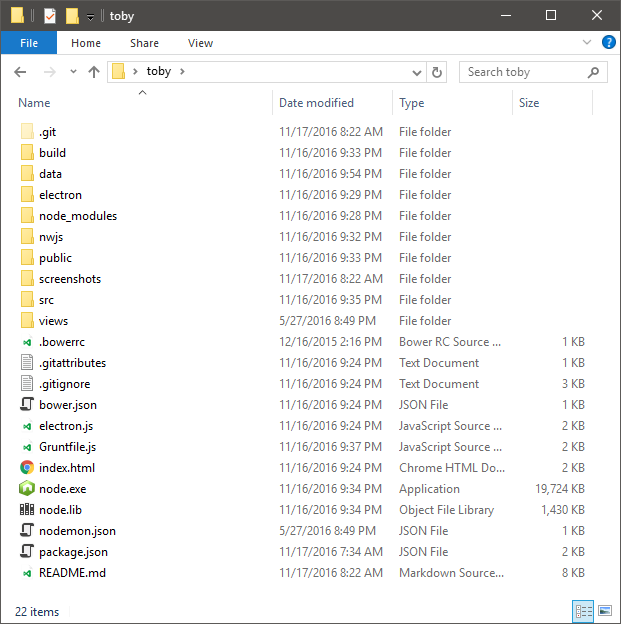
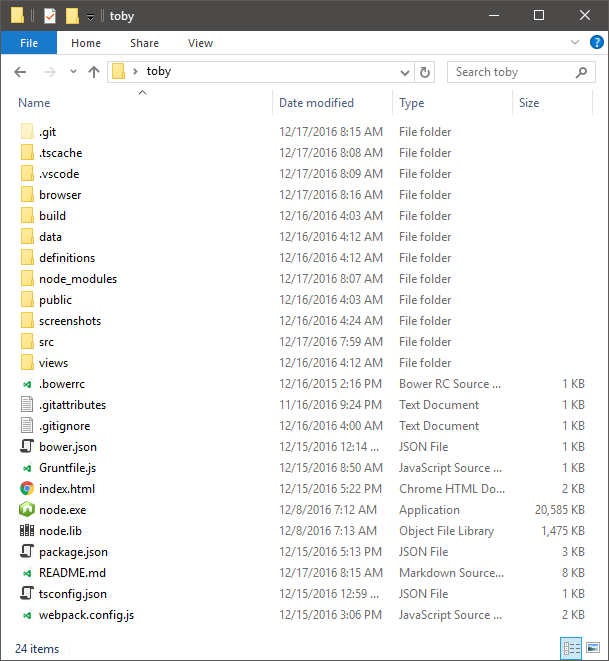
Update README

diff --git a/src/react-components/video-list-ui.tsx b/src/react-components/video-list-ui.tsx
@@ -115,9 +115,9 @@ export class VideoList extends React.Component<{}, {}> {
     //   );
     // });
 
+    //<table id="videoListTable">{videoResults}</table>
     return (
-      <div className="content-panel">
-        <table id="videoListTable">{videoResults}</table>
+      <div className="content-panel">        
       </div>
     )
   }

diff --git a/README.md b/README.md
@@ -2,7 +2,7 @@
 
 [![Join the chat at https://gitter.im/frankhale/toby](https://badges.gitter.im/frankhale/toby.svg)](https://gitter.im/frankhale/toby?utm_source=badge&utm_medium=badge&utm_campaign=pr-badge&utm_content=badge)
 
-Toby is a simple YouTube player for the desktop.
+Toby is a YouTube player for the desktop.
 
 ### Screenshots
 
@@ -41,12 +41,12 @@ all the code from the file system. The new architecture puts Toby behind an
 Express web application that is spawned from a regular Node process so that more
 deployment scenarios are possible.
 
-A Toby deployment would ship the regular Node.exe and Node.dll files along side
-the source code. We know NW.js and Electron ship with Node embedded but shipping
-Node as an external resource allows us to run Toby's server in a regular Node 
-process and unencumbered by NW.js / Electron specific compiling requirements for 
-any potential native Node modules we may want to use in the future. The only 
-native Node module being at the moment is SQLite3.
+A Toby deployment would ship the regular `node.exe` and `node.lib` files along 
+side the source code. We know NW.js and Electron ship with Node embedded but 
+shipping Node as an external resource allows us to run Toby's server in a 
+regular Node process and unencumbered by NW.js / Electron specific compiling 
+requirements for any potential native Node modules we may want to use nor or in 
+the future. The only native Node module being at the moment is SQLite3.
 
 Having Toby behind an Express app makes it fairly trivial to deploy to NW.js,
 Electron and support a regular web browser.
@@ -66,14 +66,19 @@ Set up the folder structure for working with either NW.js or Electron or both:
 Notice that we have a copy of `node.exe` and `node.lib` in the root of the 
 source code repository. This is used to spawn our server for serving our API.
 
-A folder named `electron` and `nwjs` have a copy of Electron and NW.js 
-respectively.
+Additionally we have a folder named `browsers` with a copy of `electron` and/or 
+`nwjs`. We'll use one of these to run Toby.
 
 #### Dependencies
 
 - Node : [http://nodejs.org](http://nodejs.org)
 - Grunt : [http://gruntjs.com](http://gruntjs.com)
 - Bower : [http://bower.io/](http://bower.io/)
+- Webpack : [https://webpack.github.io/](https://webpack.github.io/)
+- Typescript : [http://typescriptlang.org/](http://typescriptlang.org/)
+
+## You Just Need One of the following:
+
 - Electron: [http://electron.atom.io/](http://electron.atom.io/)
 - NW.js: [http://nwjs.io/](http://nwjs.io/)
 
@@ -85,7 +90,7 @@ the Toby server.
 
 The required Node binaries are located here (for example):
 
-https://nodejs.org/dist/v7.0.0/win-x64/
+[https://nodejs.org/dist/v7.2.1/win-x64/](https://nodejs.org/dist/v7.2.1/win-x64/)
 
 Depending on what platform you want to run Toby in (Electron or NW.js) you'll
 need to make sure the main property in package.json is set accordingly:
@@ -109,31 +114,44 @@ commands.
 #### Install dependencies  
 
 ```
+npm install -g webpack
+npm install -g typescript
+npm install -g grunt
 npm install   
 bower install
 ```
 
-The code needs to be built using Grunt. If you need grunt install it via 
-`npm install -g grunt`.
+The server needs to be built using Grunt.
 
 ```
 grunt
+```
+
+The front end needs to be build using Webpack.
+
+```
+webpack
 ```
 
 Assuming all dependencies are downloaded and the source code has been compiled
 perform the following from a command line at the root of the Toby code 
 repository:
 
+***NOTE: `main` will need to be updated in `package.json` to point to the 
+correct starting point for your deployment scenario. If you are using Electron 
+it will need to be set to `build\electron.js` or if you are using NW.js it'll 
+need to be set to `index.html`***
+
 #### Running in NW.js
 
 ```
-nwjs\nw.exe .
+browsers\nwjs\nw.exe .
 ```
 
 #### Running in Electron
 
 ```
-electron\electron .
+browsers\electron\electron .
 ```
 
 ### Usage
@@ -191,43 +209,22 @@ you and there are a lot of resources already out there to handle this scenario.
 - Caching YouTube search results for a bit to avoid querying YouTube over and
   over for the same thing
 - Usage info from within the app
-- Add `/import` to import new videos in the data.txt file
 
 ### Updating the data file
 
-Unlike previous versions of Toby the data.txt file located in the data folder is
-now only used initially to create the database which stores your favorite
-videos. Videos stored in the database can be exported by entering the `/archive`
-command in the search box. A corresponding `/import` command has not been
-implemented yet.
+I've removed the ordinary data file as it was too cumbersome to get the parser
+correct. I've decided to just define some basic starting video data in the
+following code file `/src/data.ts`. If you are building from source feel free to
+edit this to your liking. If at anytime you edit this file and run Toby it will
+update your database importing any new videos you put there.
 
-The data format for your favorite videos is very simple. It can contain one or
-more groups. The 'Recently Played' group is special and will be added if it's
-not present and will contain the last 30 videos you've recently played.
-
-Data Format:
-
-```
-Group Name {
-  Video Title : Video Id
-}
-```
-
-See real example below:
-
-```
-Recently Played {
-  Sunlight Project feat Danny Claire - Stay (tranzLift Remix) Promo : yWQvWTM7Hqg
-  Dash Berlin - Underneath The Sky (Sunsound Chillout Remix) : UEqMD-5urik
-  Chris Tomlin - Awake My Soul (with Lecrae) [Lyrics] : fWpvknKuYrg
-  Chris Tomlin - Good Good Father (Live at the Grand Ole Opry) : eaqaER7dasY
-}
-```
+***NOTE: Although it hasn't been done yet it'd be trivial to replace this with JSON 
+data loaded from the filesystem.***
 
 ## Author(s)
 
 Frank Hale &lt;frankhale@gmail.com&gt;  
-17 November 2016
+17 December 2016
 
 ## License
 
